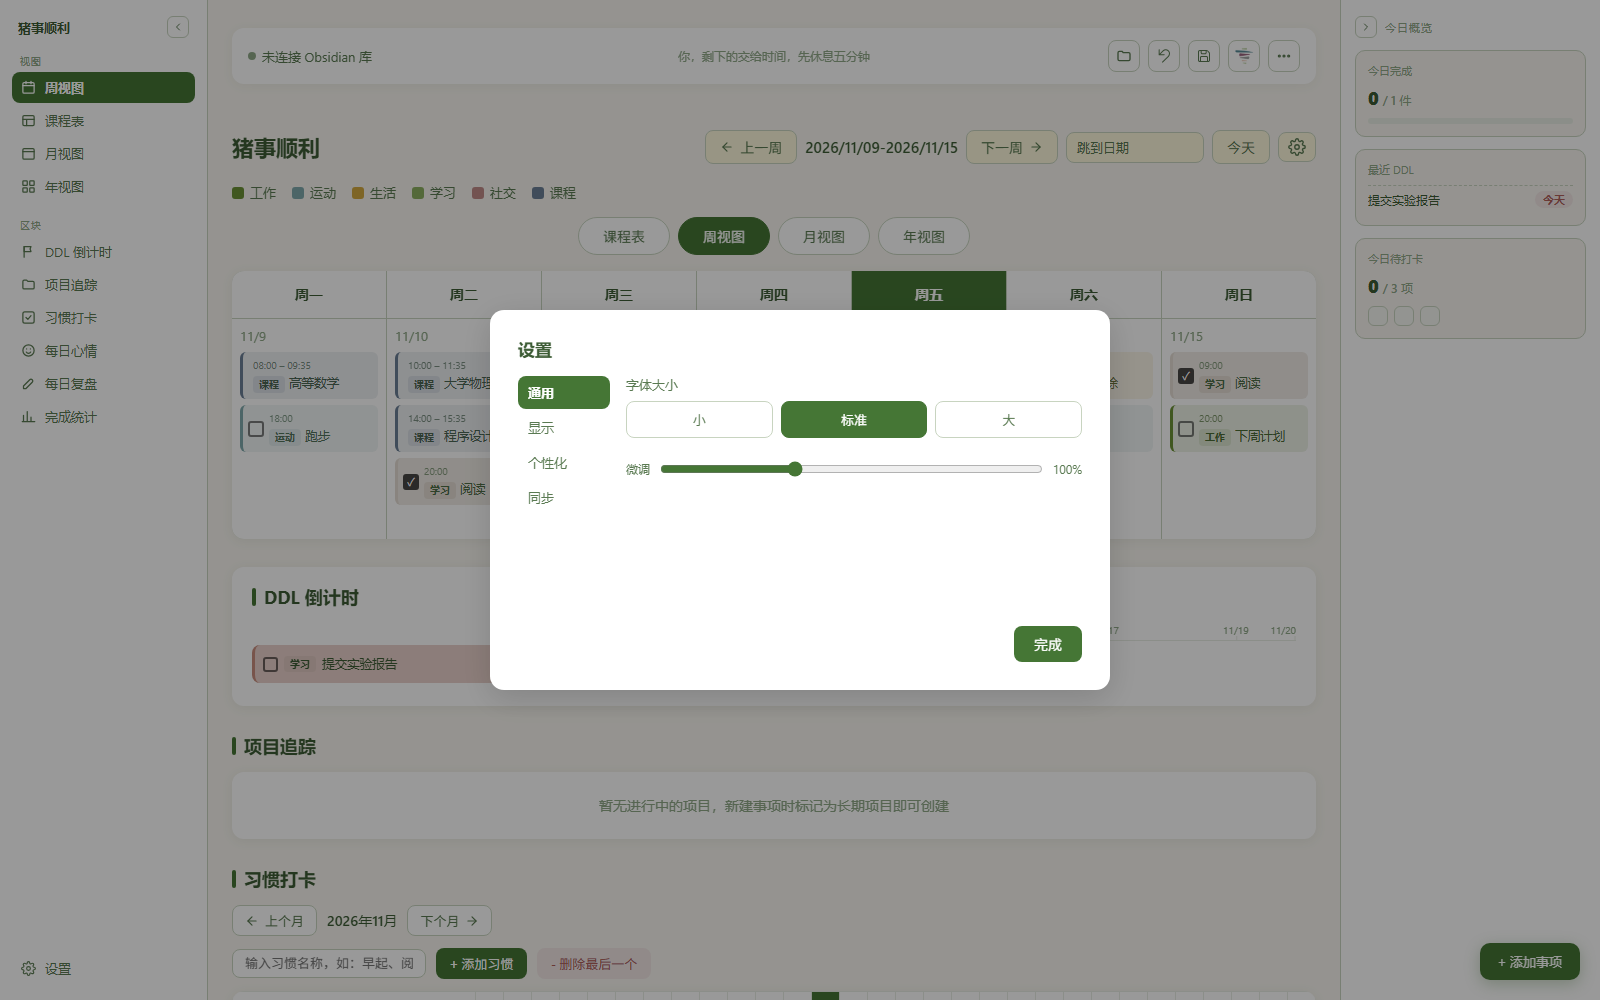
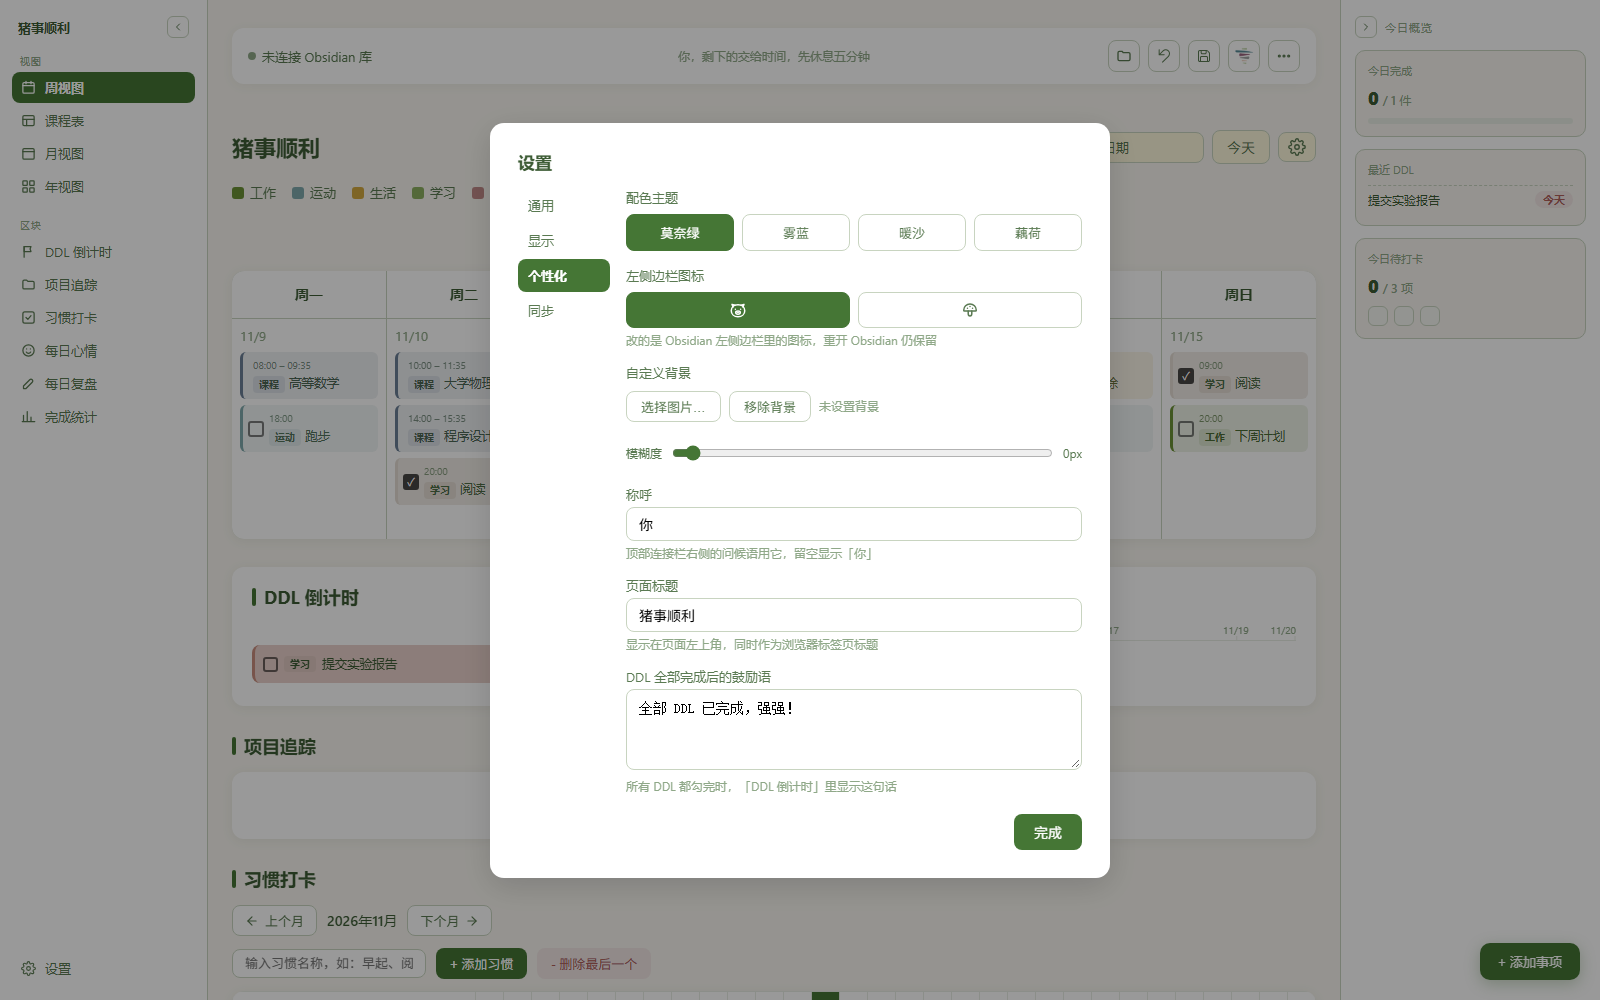
chore: 示例日程脱敏，更新设置截图

Changed region(s): [[0.2812, 0.124, 0.7188, 0.899]]

diff --git a/猪事顺利.html b/猪事顺利.html
@@ -3967,30 +3967,30 @@ try { zsFreshStorage = localStorage.getItem('weeklyPlanEvents') === null; } catc
 
 const DEFAULT_EVENTS = {
   '2026-08-31': [
-    { content: '上课（北3-310）', category: 'study', time: '09:00' },
-    { content: '上课（北3-310）', category: 'study', time: '14:00' },
+    { content: '上课（教1-101）', category: 'study', time: '09:00' },
+    { content: '上课（教1-101）', category: 'study', time: '14:00' },
     { content: '跑步+无氧', category: 'exercise', time: '18:00' }
   ],
   '2026-09-01': [
     { content: '跑步+无氧', category: 'exercise', time: '07:00' },
-    { content: '上课（北3-310）', category: 'study', time: '09:00' },
-    { content: '上课（北3-310）', category: 'study', time: '14:00' },
+    { content: '上课（教1-101）', category: 'study', time: '09:00' },
+    { content: '上课（教1-101）', category: 'study', time: '14:00' },
     { content: '阅读', category: 'study', time: '19:00' }
   ],
   '2026-09-02': [
-    { content: '上课（北3-310）', category: 'study', time: '09:00' },
-    { content: '上课（北3-310）', category: 'study', time: '14:00' },
+    { content: '上课（教1-101）', category: 'study', time: '09:00' },
+    { content: '上课（教1-101）', category: 'study', time: '14:00' },
     { content: '游泳', category: 'exercise', time: '18:00' }
   ],
   '2026-09-03': [
-    { content: '上课（北3-310）', category: 'study', time: '09:00' },
-    { content: '上课（北3-310）', category: 'study', time: '14:00' },
+    { content: '上课（教1-101）', category: 'study', time: '09:00' },
+    { content: '上课（教1-101）', category: 'study', time: '14:00' },
     { content: '跑步+无氧', category: 'exercise', time: '18:00' }
   ],
   '2026-09-04': [
     { content: '跑步+无氧', category: 'exercise', time: '07:00' },
-    { content: '上课（北3-310）', category: 'study', time: '09:00' },
-    { content: '上课（北3-310）', category: 'study', time: '14:00' },
+    { content: '上课（教1-101）', category: 'study', time: '09:00' },
+    { content: '上课（教1-101）', category: 'study', time: '14:00' },
     { content: '阅读', category: 'study', time: '19:00' }
   ],
   '2026-09-05': [
